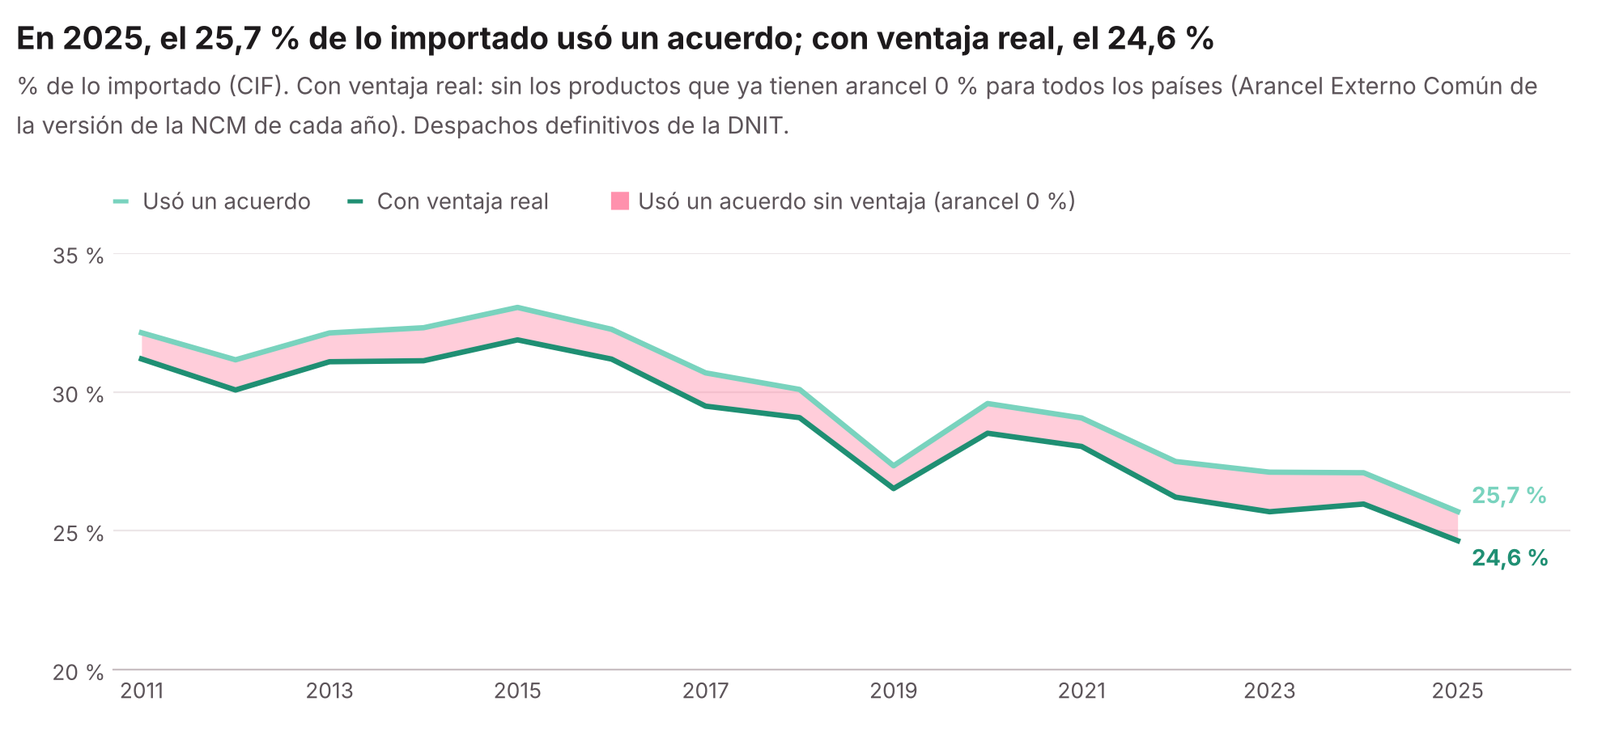
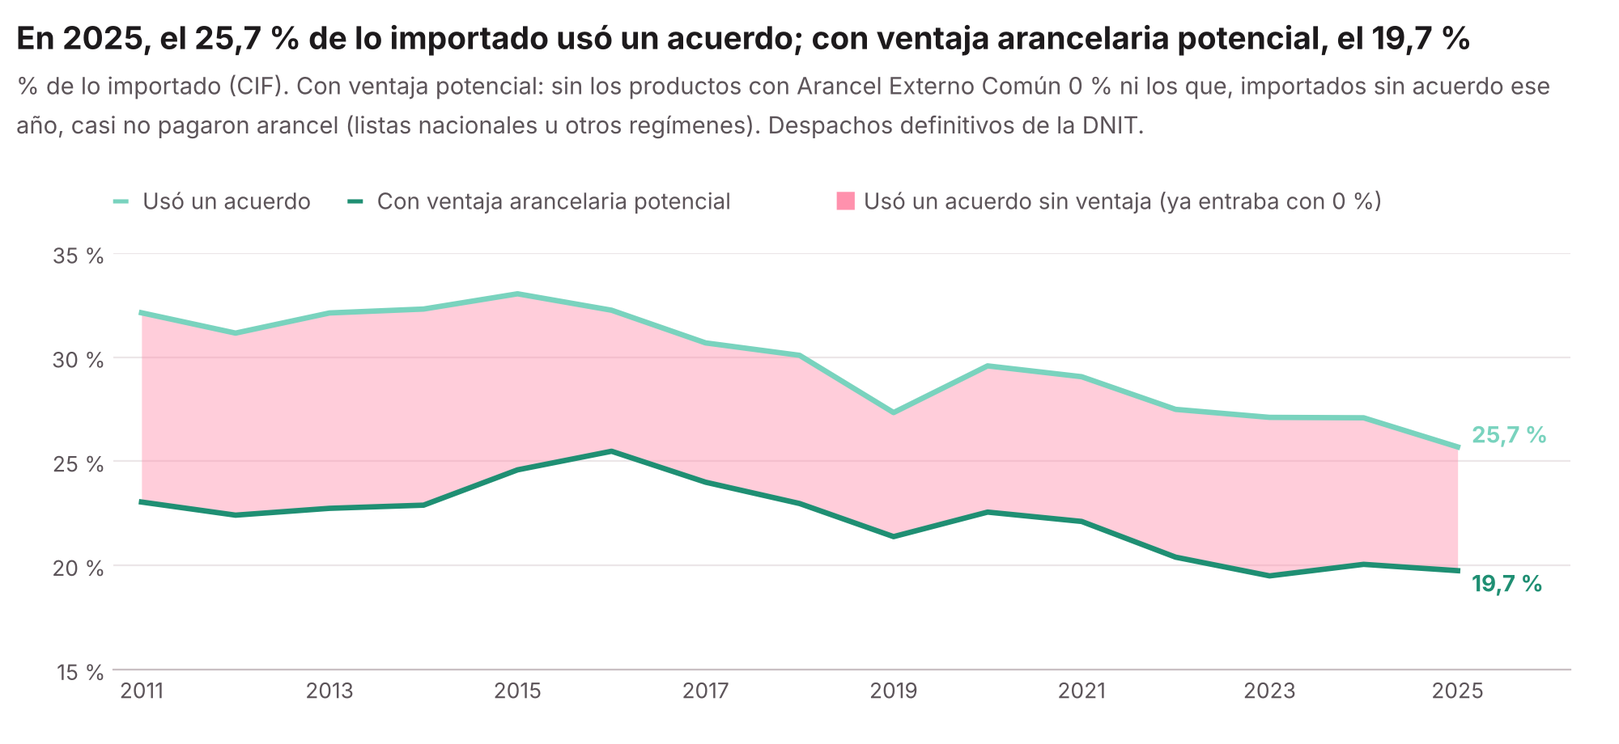
Participación del comercio con acuerdo; ventaja arancelaria potencial (AEC 0 y productos que sin acuerdo no pagan); exportaciones registradas del BCP; cinco series de cuatro instituciones

diff --git a/docs/index.html b/docs/index.html
@@ -172,7 +172,7 @@ footer { margin-top: 48px; padding: 28px 0 48px; border-top: 1px solid var(--lin
 <div class="wrap">
   <nav class="toc" aria-label="Contenido">
     <a href="#consulta">Consultá un dato</a>
-    <a href="#resultados">Utilización</a>
+    <a href="#resultados">Con acuerdo</a>
     <a href="#socios">Por socio</a>
     <a href="#por-acuerdo">Por acuerdo</a>
     <a href="#productos">Productos</a>
@@ -201,10 +201,10 @@ footer { margin-top: 48px; padding: 28px 0 48px; border-top: 1px solid var(--lin
 
   <section id="resultados">
     <h2>Más de la mitad de lo exportado ya usa un acuerdo comercial</h2>
-    <p>La <strong>tasa de utilización</strong> es la parte de lo exportado que usó efectivamente una preferencia de un acuerdo comercial (MERCOSUR, acuerdos del MERCOSUR con terceros países y acuerdos ALADI). Se calcula con los despachos de la DNIT: valor FOB de las exportaciones de origen paraguayo, con y sin acuerdo.</p>
+    <p>La <strong>participación del comercio con acuerdo</strong> es la parte de lo exportado que usó efectivamente una preferencia de un acuerdo comercial (MERCOSUR, acuerdos del MERCOSUR con terceros países y acuerdos ALADI). Se calcula con los despachos de la DNIT: valor FOB de las exportaciones de origen paraguayo, con y sin acuerdo. En esta página la llamamos también "utilización", pero no es la <em>tasa de utilización de preferencias</em> de los estudios académicos, que divide solo por lo que podría usar una preferencia (los productos con rebaja en el acuerdo). Para calcularla haría falta el arancel de cada país comprador, producto por producto, que no está en estos datos.</p>
 
     <div class="kpis">
-      <div class="kpi"><div class="v">39,6 %</div><div class="l">Tasa de utilización en 2011</div></div>
+      <div class="kpi"><div class="v">39,6 %</div><div class="l">Exportado con acuerdo en 2011</div></div>
       <div class="kpi"><div class="v">65,0 %</div><div class="l">Máximo de la serie, en 2023</div></div>
       <div class="kpi"><div class="v">61,6 %</div><div class="l">2026, de enero a septiembre (USD 5.435 M de 8.820 M)</div></div>
     </div>
@@ -237,7 +237,7 @@ footer { margin-top: 48px; padding: 28px 0 48px; border-top: 1px solid var(--lin
   <section id="por-acuerdo">
     <h2>El MERCOSUR concentra casi todo el comercio con preferencia, año tras año</h2>
     <p>Exportaciones (FOB) e importaciones (CIF) de cada año según el acuerdo que se usó en el despacho. El MERCOSUR (ACE 18) es entre el 81 % y el 96 % de todo lo que usa una preferencia, según el año. Elija el año para ver el detalle:</p>
-    <p><strong>Importaciones: usar el acuerdo no siempre da una ventaja.</strong> A veces el importador invoca un acuerdo para un producto que ya paga 0 % de arancel a todos los países, así que el acuerdo no le ahorra nada. Por eso mostramos dos cifras: en 2025, el <strong>25,7 %</strong> de lo importado <strong>usó un acuerdo</strong> (lo que declaró el importador) y el <strong>24,6 %</strong> lo usó <strong>con ventaja real</strong>, es decir, sin esos productos con arancel 0 %. La diferencia es de entre el 3 % y el 5 % de lo importado con acuerdo, según el año. <a href="aduana.html#ventaja">Ver la serie completa</a>.</p>
+    <p><strong>Importaciones: usar el acuerdo no siempre da una ventaja.</strong> A veces el importador invoca un acuerdo para un producto que ya entraba sin pagar arancel: porque el Arancel Externo Común es 0 %, o porque está en una lista nacional o en otro régimen con arancel 0. Por eso mostramos dos cifras: en 2025, el <strong>25,7 %</strong> de lo importado <strong>usó un acuerdo</strong> (lo que declaró el importador) y el <strong>19,7 %</strong> lo usó <strong>con ventaja arancelaria potencial</strong>, es decir, en productos que sin acuerdo sí pagaban arancel. La diferencia es de entre el 21 % y el 29 % de lo importado con acuerdo, según el año. Es una aproximación: no ve las exoneraciones propias de cada importador ni las rebajas parciales. <a href="aduana.html#ventaja">Ver la serie completa</a>.</p>
     <div class="card">
       <label for="anio" class="note">Año</label>
       <select id="anio" aria-label="Elegir el año"></select>
@@ -250,9 +250,9 @@ footer { margin-top: 48px; padding: 28px 0 48px; border-top: 1px solid var(--lin
     <div class="card">
       <picture>
         <source media="(prefers-color-scheme: dark)" srcset="img/importaciones_ventaja_dark.png">
-        <img src="img/importaciones_ventaja_light.png" alt="Gráfico de líneas, 2011 a 2025: porcentaje de lo importado que usó un acuerdo y porcentaje que lo usó con ventaja real; la diferencia es de alrededor de un punto por año" loading="lazy">
+        <img src="img/importaciones_ventaja_light.png" alt="Gráfico de líneas, 2011 a 2025: porcentaje de lo importado que usó un acuerdo y porcentaje que lo usó con ventaja arancelaria potencial; la diferencia es de unos 6 puntos por año" loading="lazy">
       </picture>
-      <p class="note">% de lo importado (CIF), años completos. La franja rosada es lo que declaró un acuerdo para productos que ya tienen arancel 0 % para todos los países. Datos: <a href="datos/importaciones_acuerdo_ventaja.csv" download>CSV</a>. Fuente: elaboración propia con datos abiertos de la DNIT y las versiones de la NCM (SAREM).</p>
+      <p class="note">% de lo importado (CIF), años completos. La franja rosada es lo que declaró un acuerdo para productos que ya entraban sin pagar arancel (Arancel Externo Común 0 %, o el mismo producto importado sin acuerdo ese año casi no pagó arancel). Datos: <a href="datos/importaciones_acuerdo_ventaja.csv" download>CSV</a>. Fuente: elaboración propia con datos abiertos de la DNIT y las versiones de la NCM (SAREM).</p>
     </div>
   </section>
 
@@ -290,11 +290,11 @@ footer { margin-top: 48px; padding: 28px 0 48px; border-top: 1px solid var(--lin
   </section>
 
   <section id="cuatro-fuentes">
-    <h2>Cinco fuentes distintas cuentan casi lo mismo: los datos abiertos de aduanas son confiables</h2>
-    <p>Las exportaciones de Paraguay se pueden medir con cuatro fuentes públicas. Sin la electricidad (que no pasa por la aduana), los despachos de la DNIT quedan entre el 94 % y el 101 % del total oficial del BCP en todos los años, y lo que los demás países declaran haber comprado a Paraguay (datos espejo) entre el 94 % y el 106 %. La VUE se aparta en 2022 por un error en sus archivos y, desde 2023, cubre menos. Además, la serie detallada del BCP por producto y país (1994–2023) coincide con lo que Paraguay informa a UN Comtrade en los 30 años, y con la DNIT en el total y en los productos. Los diez cruces de a pares entre las cinco fuentes, con las mayores diferencias y sus explicaciones, están en un Excel: <a href="datos/Cruces_5_fuentes_comercio_Paraguay.xlsx" download>Cruces de las 5 fuentes</a>.</p>
+    <h2>Cinco series de cuatro instituciones cuentan casi lo mismo: los datos abiertos de aduanas son confiables</h2>
+    <p>Las exportaciones de Paraguay se pueden medir con cinco series de cuatro instituciones: la DNIT, la VUE (Ministerio de Industria y Comercio), el BCP (con dos series: la mensual y la detallada por producto y país) y UN Comtrade. Sin la electricidad (que no pasa por la aduana), los despachos de la DNIT quedan entre el 94 % y el 101 % de las <strong>exportaciones registradas</strong> del BCP en todos los años (es decir, sin las reexportaciones, que el BCP publica aparte, y sin electricidad), y lo que los demás países declaran haber comprado a Paraguay (datos espejo) entre el 94 % y el 106 %. La VUE se aparta en 2022 por un error en sus archivos y, desde 2023, cubre menos. Además, la serie detallada del BCP por producto y país (1994–2023) coincide con lo que Paraguay informa a UN Comtrade en los 30 años, y con la DNIT en el total y en los productos. Los diez cruces de a pares entre las cinco fuentes, con las mayores diferencias y sus explicaciones, están en un Excel: <a href="datos/Cruces_5_fuentes_comercio_Paraguay.xlsx" download>Cruces de las 5 fuentes</a>.</p>
     <div class="card">
       <div class="legend">
-        <span><span class="sw line" style="background:var(--text)"></span>BCP, estadística oficial</span>
+        <span><span class="sw line" style="background:var(--text)"></span>BCP, exportaciones registradas</span>
         <span><span class="sw line" style="background:var(--s1)"></span>DNIT, despachos</span>
         <span><span class="sw line" style="background:var(--s3)"></span>VUE, certificados de origen</span>
         <span><span class="sw line" style="background:var(--s4)"></span>Espejo, lo que declaran los socios</span>
@@ -350,7 +350,7 @@ python python/procesar_despachos.py --anios 2021</code></pre>
   <section id="preguntas">
     <h2>Preguntas frecuentes</h2>
     <details><summary>¿Por qué la VUE no coincide con las exportaciones con acuerdo?</summary><p>Porque la VUE registra todos los certificados de origen emitidos, también los de envíos que no usan una preferencia. Además, la VUE usa el país de destino final y la DNIT el país declarado en el despacho, y la fecha de la VUE es la de emisión del certificado, no la de cancelación del despacho.</p></details>
-    <details><summary>¿Qué es la tasa de utilización?</summary><p>Es la parte de lo exportado que usó efectivamente una preferencia arancelaria de un acuerdo comercial. Una tasa baja con un socio con el que hay acuerdo puede indicar que los productos no tienen preferencia, que el arancel ya es cero para todos o que cumplir las reglas de origen no conviene.</p></details>
+    <details><summary>¿Qué es la "utilización" de los acuerdos en esta página?</summary><p>Es la participación del comercio con acuerdo: la parte de lo exportado que usó efectivamente una preferencia arancelaria. No es la tasa de utilización de preferencias de los estudios académicos, que divide solo por el comercio que podría usar una preferencia; para eso haría falta el arancel de cada país comprador, producto por producto. Una tasa baja con un socio con el que hay acuerdo puede indicar que los productos no tienen preferencia, que el arancel ya es cero para todos o que cumplir las reglas de origen no conviene.</p></details>
     <details><summary>¿Qué diferencia hay entre "OMC" y "sin acuerdo"?</summary><p>En la práctica, ninguna: en los dos casos se paga el arancel general, sin rebaja. <strong>Sin acuerdo</strong> quiere decir que el despacho no pidió ninguna preferencia; es lo normal cuando no hay acuerdo con ese país, o cuando lo hay pero no se usó. <strong>OMC</strong> quiere decir que se invocó el trato que Paraguay da a todos los miembros de la Organización Mundial del Comercio (el "trato de nación más favorecida"), que no es una rebaja: es el mismo arancel general que paga cualquiera. Por eso en esta página los dos cuentan como "sin acuerdo". La DNIT tiene un código aparte para "OMC" y no publica la regla de cuándo se usa; pesa menos del 1 % de las importaciones y casi nada en las exportaciones. Hay una tercera etiqueta, "sin dato de acuerdo", cuando el despacho no informa nada en ese campo; son montos mínimos.</p></details>
     <details><summary>¿Están todos los acuerdos de Paraguay en los datos de la DNIT?</summary>
       <p>No todos. <strong>Sí aparecen</strong>: el MERCOSUR, los acuerdos bilaterales con Argentina y Brasil, los acuerdos del MERCOSUR con Chile, Bolivia, Perú, la Comunidad Andina, Colombia, Cuba, Israel, Egipto, la SACU y la Unión Europea (desde 2026), el acuerdo con México y la Preferencia Arancelaria Regional de ALADI.</p>
@@ -503,7 +503,7 @@ const chip = u => { const t = (u - uMin) / (uMax - uMin || 1), x = t * (PAL.leng
   const c = PAL[k].map((v,i) => Math.round(v + (PAL[k+1][i]-v)*f));
   return `<span class="chip" style="background:rgb(${c});color:${t < .15 || t > .85 ? "#fff" : "#1d1a1c"}">${fmt(u,1)} %</span>`; };
 document.getElementById("tabla").innerHTML =
-  "<thead><tr><th>Año</th><th>BCP</th><th>DNIT</th><th>VUE</th><th>Espejo (CIF)</th><th>Con acuerdo</th><th>Utilización</th></tr></thead><tbody>" +
+  "<thead><tr><th>Año</th><th>BCP</th><th>DNIT</th><th>VUE</th><th>Espejo (CIF)</th><th>Con acuerdo</th><th>% con acuerdo</th></tr></thead><tbody>" +
   D.map(r => { const tot = r[1] + r[2];
     return `<tr><td>${r[6] < 12 ? r[0] + " (ene–sep)" : r[0]}</td><td>${v1(r[4])}</td><td>${v1(tot)}</td><td>${v1(r[3])}</td><td>${v1(r[5])}</td><td>${v1(r[1])}</td><td>${chip(100*r[1]/tot)}</td></tr>`;
   }).join("") + "</tbody>";

diff --git a/docs/aduana.html b/docs/aduana.html
@@ -164,12 +164,12 @@ footer { margin-top: 48px; padding: 28px 0 48px; border-top: 1px solid var(--lin
     <h2>Importaciones que declaran un acuerdo sin ganar nada con él</h2>
     <div class="card">
       <h3>En las importaciones, no todo lo que "usa" un acuerdo gana algo con él</h3>
-      <p>Si un producto ya tiene arancel 0 % para cualquier país (Arancel Externo Común 0 %), declarar un acuerdo no le da ninguna ventaja: entraría igual sin pagar arancel. Por eso se separa lo que usó un acuerdo con ventaja real.</p>
+      <p>Si un producto ya entraba sin pagar arancel, declarar un acuerdo no le da ninguna ventaja. Eso pasa cuando el Arancel Externo Común es 0 %, o cuando el mismo producto, importado sin acuerdo ese año, casi no pagó arancel (por una lista nacional, como Bienes de Capital, o por otra ley o régimen). Por eso se separa lo que usó un acuerdo con <strong>ventaja arancelaria potencial</strong>.</p>
       <div class="tw"><table>
-        <thead><tr><th>Año</th><th>Importaciones con acuerdo</th><th>Con ventaja real (AEC mayor a 0)</th><th>Con acuerdo pero AEC 0 % (millones de USD)</th></tr></thead>
-        <tbody><tr><td>2011</td><td>32,1 %</td><td>31,2 %</td><td>118</td></tr><tr><td>2012</td><td>31,2 %</td><td>30,1 %</td><td>127</td></tr><tr><td>2013</td><td>32,1 %</td><td>31,1 %</td><td>127</td></tr><tr><td>2014</td><td>32,3 %</td><td>31,1 %</td><td>145</td></tr><tr><td>2015</td><td>33,0 %</td><td>31,9 %</td><td>119</td></tr><tr><td>2016</td><td>32,3 %</td><td>31,2 %</td><td>102</td></tr><tr><td>2017</td><td>30,7 %</td><td>29,5 %</td><td>141</td></tr><tr><td>2018</td><td>30,1 %</td><td>29,1 %</td><td>132</td></tr><tr><td>2019</td><td>27,3 %</td><td>26,5 %</td><td>100</td></tr><tr><td>2020</td><td>29,6 %</td><td>28,5 %</td><td>104</td></tr><tr><td>2021</td><td>29,1 %</td><td>28,0 %</td><td>132</td></tr><tr><td>2022</td><td>27,5 %</td><td>26,2 %</td><td>192</td></tr><tr><td>2023</td><td>27,1 %</td><td>25,7 %</td><td>219</td></tr><tr><td>2024</td><td>27,1 %</td><td>26,0 %</td><td>184</td></tr><tr><td>2025</td><td>25,7 %</td><td>24,6 %</td><td>189</td></tr><tr><td>2026*</td><td>24,6 %</td><td>23,6 %</td><td>163</td></tr></tbody>
+        <thead><tr><th>Año</th><th>Importaciones con acuerdo</th><th>Con ventaja arancelaria potencial</th><th>Con acuerdo sin ventaja (millones de USD)</th></tr></thead>
+        <tbody><tr><td>2011</td><td>32.1 %</td><td>23.0 %</td><td>1.141</td></tr><tr><td>2012</td><td>31.2 %</td><td>22.4 %</td><td>1.018</td></tr><tr><td>2013</td><td>32.1 %</td><td>22.7 %</td><td>1.146</td></tr><tr><td>2014</td><td>32.3 %</td><td>22.9 %</td><td>1.149</td></tr><tr><td>2015</td><td>33.0 %</td><td>24.6 %</td><td>863</td></tr><tr><td>2016</td><td>32.3 %</td><td>25.5 %</td><td>645</td></tr><tr><td>2017</td><td>30.7 %</td><td>24.0 %</td><td>785</td></tr><tr><td>2018</td><td>30.1 %</td><td>23.0 %</td><td>928</td></tr><tr><td>2019</td><td>27.3 %</td><td>21.4 %</td><td>725</td></tr><tr><td>2020</td><td>29.6 %</td><td>22.6 %</td><td>685</td></tr><tr><td>2021</td><td>29.1 %</td><td>22.1 %</td><td>892</td></tr><tr><td>2022</td><td>27.5 %</td><td>20.4 %</td><td>1.061</td></tr><tr><td>2023</td><td>27.1 %</td><td>19.5 %</td><td>1.170</td></tr><tr><td>2024</td><td>27.1 %</td><td>20.1 %</td><td>1.151</td></tr><tr><td>2025</td><td>25.7 %</td><td>19.7 %</td><td>1.073</td></tr><tr><td>2026*</td><td>24.6 %</td><td>18.8 %</td><td>973</td></tr></tbody>
       </table></div>
-      <p class="note">% del total importado (CIF). AEC de la versión de la Nomenclatura Común del MERCOSUR vigente cada año (las 63 versiones publicadas por SAREM, 2002–2026, reunidas en el proyecto <a href="https://github.com/silvia-mov/nomenclaturas-y-correlaciones-del-mercosur">Nomenclatura Común del MERCOSUR: versiones y correlaciones</a>); así todos los productos tienen su AEC. *2026: año incompleto. En exportaciones, la ventaja depende del arancel del país que compra, que no está en estos datos. Datos: <a href="datos/importaciones_acuerdo_ventaja.csv" download>CSV</a>. Fuente: elaboración propia con datos abiertos de la DNIT.</p>
+      <p class="note">% del total importado (CIF). AEC de la versión de la Nomenclatura Común del MERCOSUR vigente cada año (las 63 versiones publicadas por SAREM, 2002–2026, reunidas en el proyecto <a href="https://github.com/silvia-mov/nomenclaturas-y-correlaciones-del-mercosur">Nomenclatura Común del MERCOSUR: versiones y correlaciones</a>); así todos los productos tienen su AEC. Sin ventaja: AEC 0 %, o el mismo producto importado sin acuerdo ese año pagó un derecho menor al 0,5 % de la base imponible. Es una aproximación: no ve las exoneraciones propias de cada importador ni las rebajas parciales. Código: <code>python/importaciones_ventaja.py</code>. *2026: año incompleto. En exportaciones, la ventaja depende del arancel del país que compra, que no está en estos datos. Datos: <a href="datos/importaciones_acuerdo_ventaja.csv" download>CSV</a>. Fuente: elaboración propia con datos abiertos de la DNIT.</p>
     </div>
   </section>
 
@@ -192,7 +192,7 @@ footer { margin-top: 48px; padding: 28px 0 48px; border-top: 1px solid var(--lin
     <div class="dl">
       <div class="card">
         <h3>Resultados en Excel</h3>
-        <p>Tasa de utilización por año y por país socio, exportaciones e importaciones por acuerdo, y exportaciones por país según la DNIT, la VUE y el BCP, 2011–2026, con notas.</p>
+        <p>Participación del comercio con acuerdo por año y por país socio, exportaciones e importaciones por acuerdo, y exportaciones por país según la DNIT, la VUE y el BCP, 2011–2026, con notas.</p>
         <div class="btns"><a class="btn primary" href="datos/Utilizacion_acuerdos_Paraguay_2011_2026.xlsx" download>Descargar Excel</a></div>
       </div>
       <div class="card">

diff --git a/docs/figuras_importaciones.py b/docs/figuras_importaciones.py
@@ -29,23 +29,23 @@ def main():
         fig, ax = plt.subplots(figsize=(10, 4.6))
         fig.patch.set_facecolor(FONDO[modo])
         fig.subplots_adjust(left=0.07, right=0.97, top=0.66, bottom=0.1)
-        ax.fill_between(d["AÑO"], d["PCT_CON_VENTAJA"], d["PCT_CON_ACUERDO"], color="#ff91ad", alpha=0.45, linewidth=0)
+        ax.fill_between(d["AÑO"], d["PCT_CON_VENTAJA_POTENCIAL"], d["PCT_CON_ACUERDO"], color="#ff91ad", alpha=0.45, linewidth=0)
         ax.plot(d["AÑO"], d["PCT_CON_ACUERDO"], color="#79d3be", linewidth=2.4)
-        ax.plot(d["AÑO"], d["PCT_CON_VENTAJA"], color="#1f8f73", linewidth=2.4)
-        for col, color, dy in (("PCT_CON_ACUERDO", "#79d3be", 0.6), ("PCT_CON_VENTAJA", "#1f8f73", -0.6)):
+        ax.plot(d["AÑO"], d["PCT_CON_VENTAJA_POTENCIAL"], color="#1f8f73", linewidth=2.4)
+        for col, color, dy in (("PCT_CON_ACUERDO", "#79d3be", 0.6), ("PCT_CON_VENTAJA_POTENCIAL", "#1f8f73", -0.6)):
             ax.text(ult["AÑO"] + 0.15, ult[col] + dy, f"{ult[col]:.1f} %".replace(".", ","), va="center",
                     fontsize=10, color=color, fontweight="bold")
-        ax.set_ylim(20, 35)   # línea, no barras: el eje no necesita empezar en 0
-        ax.set_yticks([20, 25, 30, 35], ["20 %", "25 %", "30 %", "35 %"])
+        ax.set_ylim(15, 35)   # línea, no barras: el eje no necesita empezar en 0
+        ax.set_yticks([15, 20, 25, 30, 35], ["15 %", "20 %", "25 %", "30 %", "35 %"])
         ax.set_xticks(list(d["AÑO"])[::2])
         ax.set_xlim(d["AÑO"].min() - 0.3, d["AÑO"].max() + 1.2)
         estilo(ax, t)
         titulo(fig, t, f"En {int(ult['AÑO'])}, el {ult['PCT_CON_ACUERDO']:.1f} % de lo importado usó un acuerdo; "
-               f"con ventaja real, el {ult['PCT_CON_VENTAJA']:.1f} %".replace(".", ","),
-               "% de lo importado (CIF). Con ventaja real: sin los productos que ya tienen arancel 0 % para todos "
-               "los países (Arancel Externo Común de la versión de la NCM de cada año). Despachos definitivos de la DNIT.")
-        leyenda(fig, t, 0.07, 0.73, [("Usó un acuerdo", "#79d3be", "━"), ("Con ventaja real", "#1f8f73", "━"),
-                                     ("Usó un acuerdo sin ventaja (arancel 0 %)", "#ff91ad", "■")])
+               f"con ventaja arancelaria potencial, el {ult['PCT_CON_VENTAJA_POTENCIAL']:.1f} %".replace(".", ","),
+               "% de lo importado (CIF). Con ventaja potencial: sin los productos con Arancel Externo Común 0 % ni los que, "
+               "importados sin acuerdo ese año, casi no pagaron arancel (listas nacionales u otros regímenes). Despachos definitivos de la DNIT.")
+        leyenda(fig, t, 0.07, 0.73, [("Usó un acuerdo", "#79d3be", "━"), ("Con ventaja arancelaria potencial", "#1f8f73", "━"),
+                                     ("Usó un acuerdo sin ventaja (ya entraba con 0 %)", "#ff91ad", "■")])
         guardar(fig, "importaciones_ventaja", modo)
     print("Listo: importaciones_ventaja_{light,dark}.png en", IMG)
 

diff --git a/python/importaciones_ventaja.py b/python/importaciones_ventaja.py
@@ -1,0 +1,45 @@
+"""Importaciones con acuerdo y con ventaja arancelaria potencial, por año.
+
+Usa los archivos anuales de la DNIT (salidas/dnit_anual/DNIT_<año>_importacion.xlsx, de dnit_raw_por_anio.py).
+Lo importado con acuerdo NO tiene ventaja potencial cuando:
+  1. el Arancel Externo Común del producto ese año es 0 % (MOTIVO_ARANCEL "Con acuerdo, pero AEC 0 %"), o
+  2. el mismo producto (NCM 8 dígitos), importado SIN acuerdo ese año, casi no pagó arancel
+     (derecho aduanero menor al 0,5 % de la base imponible): listas nacionales, otras leyes o regímenes.
+Es una aproximación: no ve exoneraciones propias de cada importador ni preferencias parciales.
+
+Uso (desde la raíz del repositorio):  python python/importaciones_ventaja.py
+Salida: docs/datos/importaciones_acuerdo_ventaja.csv
+"""
+import pandas as pd, sys
+sys.path.insert(0,"python")
+R=[]
+for a in range(2011,2027):
+    d=pd.read_excel(f"salidas/dnit_anual/DNIT_{a}_importacion.xlsx",sheet_name="Datos",engine="calamine",
+        usecols=["SE_CUENTA","POSICION","ACUERDO","MOTIVO_ARANCEL","FOB DOLAR","FLETE DOLAR","SEGURO DOLAR","DERECHO","IMPONIBLE GS"])
+    d=d[d.SE_CUENTA=="SI"].copy()
+    d["NCM"]=d.POSICION.astype(str).str.replace(".","",regex=False).str[:8]
+    d["V"]=d["FOB DOLAR"]+d["FLETE DOLAR"]+d["SEGURO DOLAR"]
+    ca=d.MOTIVO_ARANCEL.str.startswith("Con acuerdo")
+    s=d[~ca].groupby("NCM")[["DERECHO","IMPONIBLE GS"]].sum()
+    tasa=(s.DERECHO/s["IMPONIBLE GS"]).where(s["IMPONIBLE GS"]>0)
+    d["TASA_SIN"]=d.NCM.map(tasa)
+    aec0=d.MOTIVO_ARANCEL.str.contains("AEC 0")
+    cero_sin=d.TASA_SIN.notna()&(d.TASA_SIN<0.005)   # el mismo producto, sin acuerdo, casi no pagó arancel
+    sin_dato=d.TASA_SIN.isna()
+    v=d.V; tot=v.sum()
+    R.append(dict(AÑO=a,TOT=tot,CA=v[ca].sum(),AEC0=v[ca&aec0].sum(),CERO_SIN=v[ca&~aec0&cero_sin].sum(),SIN_COMP=v[ca&~aec0&sin_dato].sum()))
+r=pd.DataFrame(R); 
+for c in ["CA","AEC0","CERO_SIN","SIN_COMP"]: r[c+"%"]=r[c]/r.TOT*100
+r["VENT%"]=(r.CA-r.AEC0-r.CERO_SIN)/r.TOT*100
+print(r[["AÑO","CA%","AEC0%","CERO_SIN%","SIN_COMP%","VENT%"]].round(2).to_string())
+meses = {a: 12 for a in r["AÑO"]}
+try:
+    meses.update(pd.read_csv("docs/datos/importaciones_acuerdo_ventaja.csv", encoding="utf-8-sig").set_index("AÑO")["MESES"].to_dict())
+except FileNotFoundError:
+    pass
+o = pd.DataFrame({"AÑO": r.AÑO, "MESES": r.AÑO.map(meses), "IMPORTACIONES_USD": r.TOT, "CON_ACUERDO_USD": r.CA,
+                  "CON_ACUERDO_AEC0_USD": r.AEC0, "CON_ACUERDO_SIN_ACUERDO_PAGA_0_USD": r.CERO_SIN,
+                  "CON_ACUERDO_SIN_COMPARACION_USD": r.SIN_COMP,
+                  "CON_ACUERDO_CON_VENTAJA_POTENCIAL_USD": r.CA - r.AEC0 - r.CERO_SIN,
+                  "PCT_CON_ACUERDO": r.CA / r.TOT * 100, "PCT_CON_VENTAJA_POTENCIAL": (r.CA - r.AEC0 - r.CERO_SIN) / r.TOT * 100})
+o.to_csv("docs/datos/importaciones_acuerdo_ventaja.csv", index=False, encoding="utf-8-sig")

diff --git a/docs/figuras_cruce.py b/docs/figuras_cruce.py
@@ -124,7 +124,7 @@ def main():
         fig, ax = plt.subplots(figsize=(10, 4.8))
         fig.subplots_adjust(left=0.07, right=0.97, top=0.7, bottom=0.12)
         series = [
-            ("BCP (oficial)", anual["BCP_SIN_ELECTRICIDAD"], t["texto"], "-"),
+            ("BCP (export. registradas)", anual["BCP_SIN_ELECTRICIDAD"], t["texto"], "-"),
             ("DNIT (despachos)", anual["DNIT_FOB_TOTAL"], t["verde"], "-"),
             ("VUE (certificados)", anual["VUE_FOB"], t["rosa"], "-"),
             ("Espejo (lo que declaran los socios)", anual["ESPEJO_SIN_ELECTRICIDAD"], t["menta"], (0, (4, 2))),
@@ -137,7 +137,7 @@ def main():
         r = (anual["DNIT_FOB_TOTAL"] / anual["BCP_SIN_ELECTRICIDAD"] * 100)
         titulo(fig, t, "Cuatro fuentes distintas cuentan casi lo mismo: los datos abiertos de aduanas son confiables",
                f"Exportaciones de Paraguay, millones de USD, sin electricidad. La DNIT queda entre el {int(r.min())} % y "
-               f"el {int(-(-r.max() // 1))} % del dato oficial del BCP. El espejo está en CIF.")
+               f"el {int(-(-r.max() // 1))} % de las exportaciones registradas del BCP (sin reexportaciones). El espejo está en CIF.")
         leyenda(fig, t, 0.07, 0.77, [(n, c, "●") for n, _, c, _ in series])
         nota = "En 2022 los archivos de la VUE tienen valores atípicos (octubre y noviembre)."
         if nota_parcial:
@@ -172,7 +172,7 @@ def main():
         nom = lambda x: TILDES.get(x.title(), x.title())
         titulo(fig, t, f"En {a_comp}, con {nom(orden[0])} el {ult[orden[0]]:.0f} % usa el acuerdo; "
                f"con {nom(orden[-1])}, solo el {ult[orden[-1]]:.0f} %",
-               "Tasa de utilización: % de lo exportado a cada país que usó una preferencia arancelaria. Los 6 socios "
+               "Participación del comercio con acuerdo: % de lo exportado a cada país que usó una preferencia arancelaria. Los 6 socios "
                f"con más exportaciones con acuerdo (DNIT). Los números son de {a_comp}, último año completo.")
         if nota_parcial:
             fig.text(0.07, 0.01, nota_parcial, fontsize=8.5, color=t["texto2"])

diff --git a/README.md b/README.md
@@ -21,7 +21,7 @@ Por país, por producto y por acuerdo, con una [página web](https://silvia-mov.
 
 <picture>
   <source media="(prefers-color-scheme: dark)" srcset="docs/img/utilizacion_anual_dark.png">
-  <img alt="Exportaciones de Paraguay con y sin acuerdo y tasa de utilización, 2011-2026" src="docs/img/utilizacion_anual_light.png">
+  <img alt="Exportaciones de Paraguay con y sin acuerdo y participación del comercio con acuerdo, 2011-2026" src="docs/img/utilizacion_anual_light.png">
 </picture>
 
 <picture>
